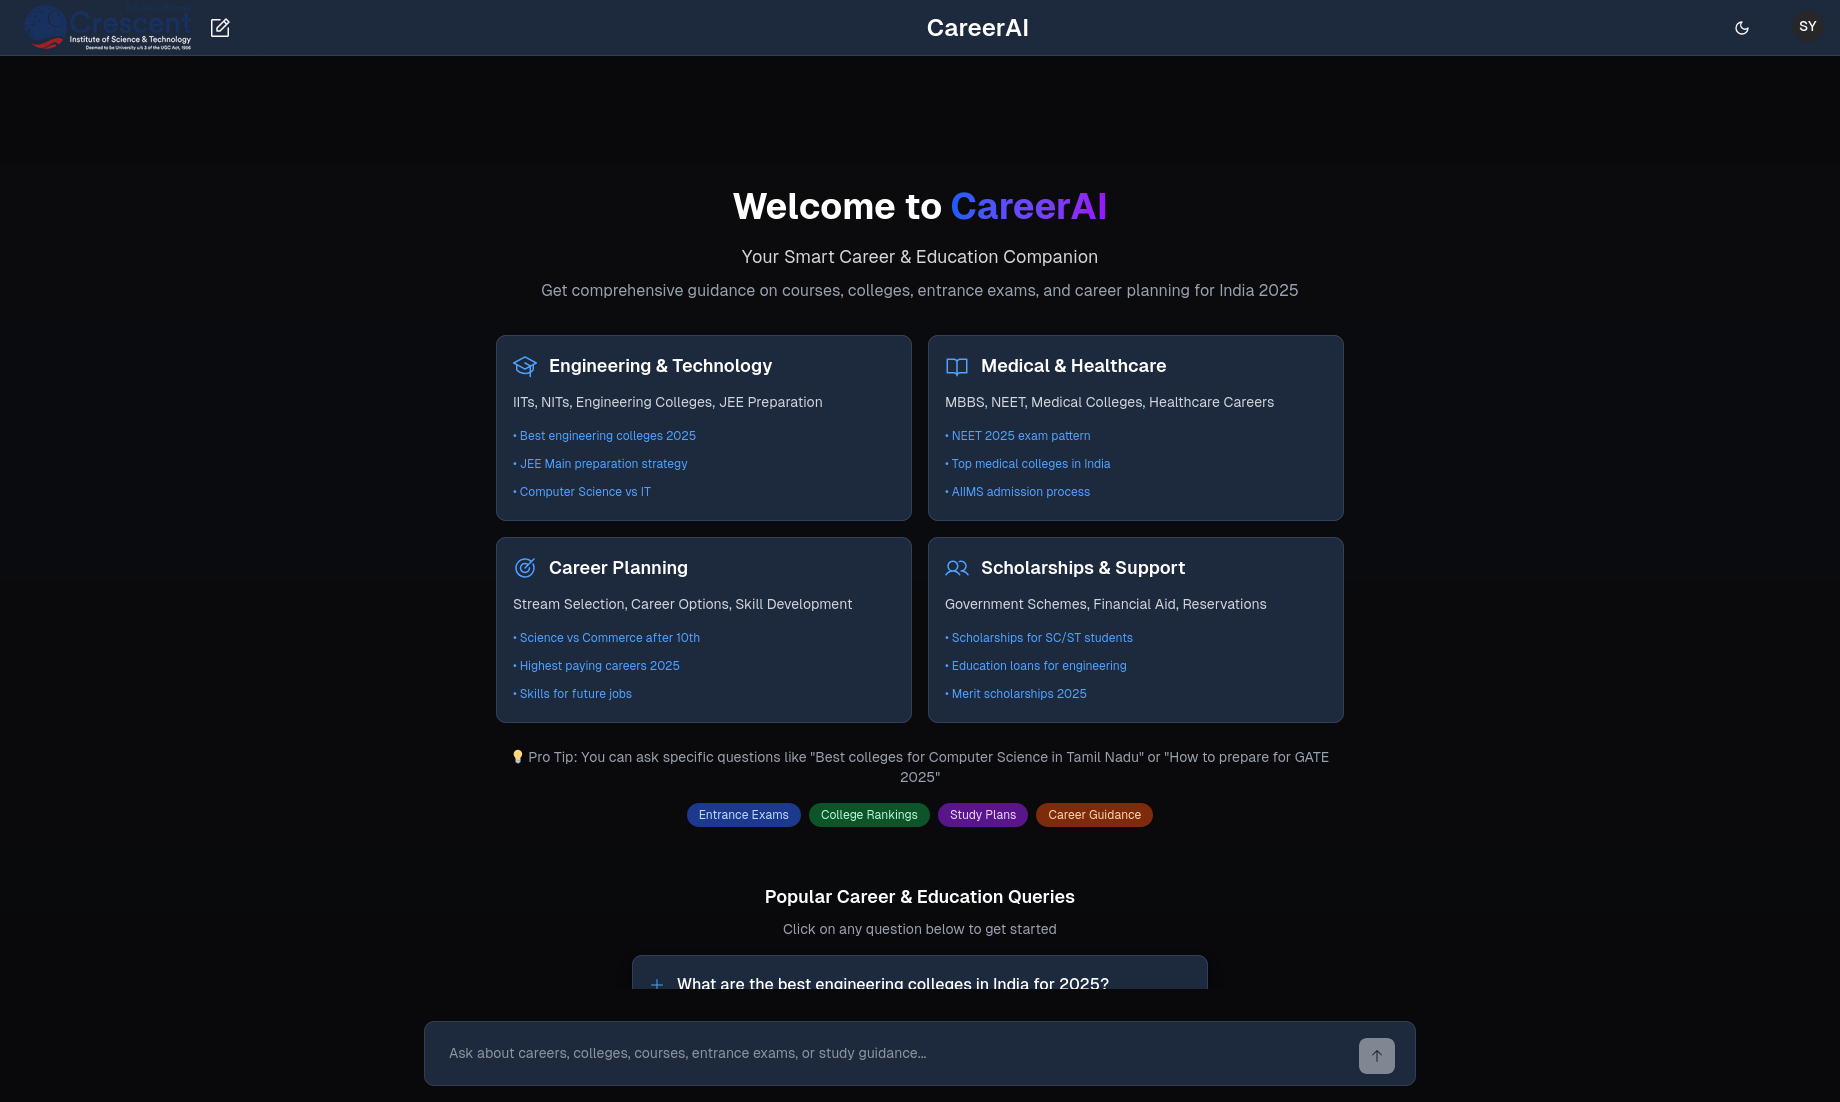
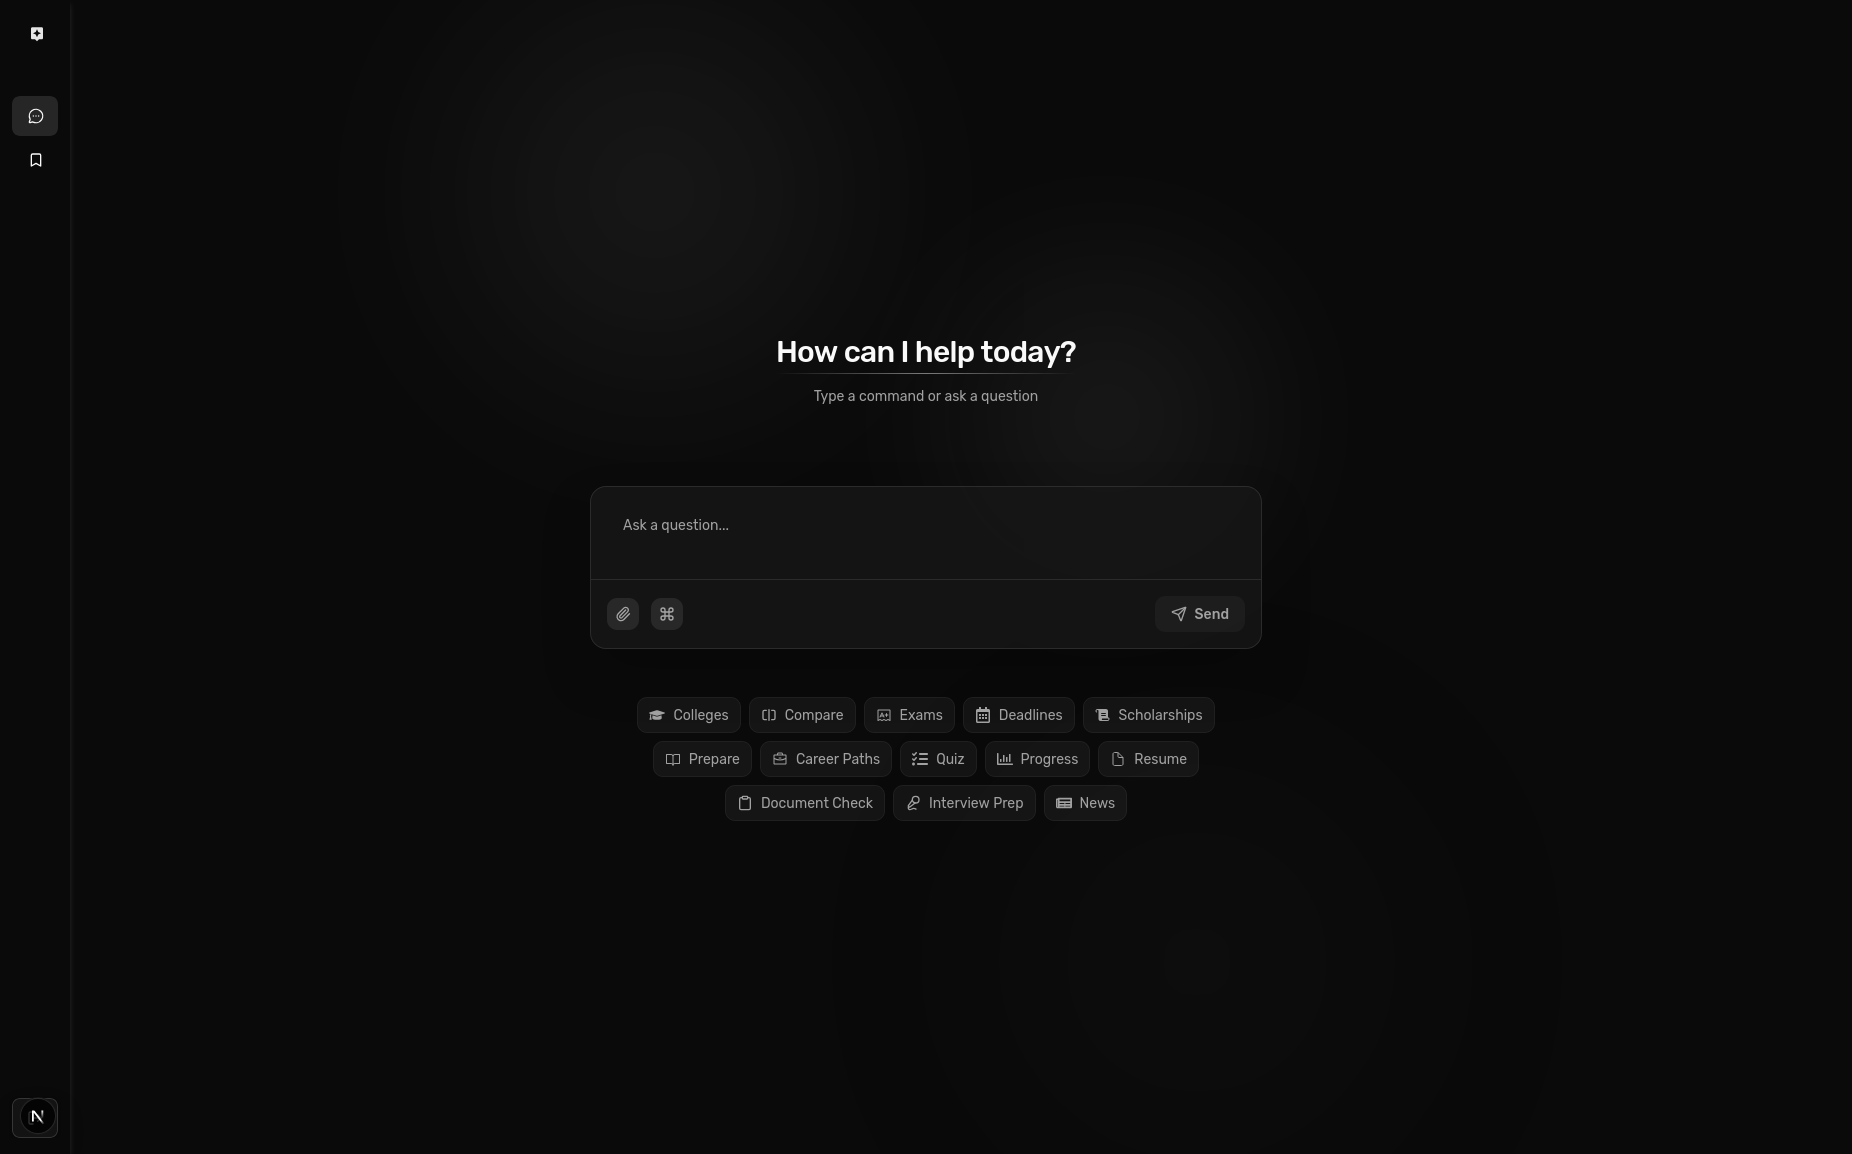
ui bug fixes

diff --git a/components/side-panel/menu.tsx b/components/side-panel/menu.tsx
@@ -2,7 +2,7 @@
 
 import Link from "next/link";
 import { LogOut } from "lucide-react";
-import { usePathname } from "next/navigation";
+import { usePathname, useRouter } from "next/navigation";
 
 import { cn } from "@/lib/utils";
 // import { getMenuList } from "@/lib/menu-list";
@@ -10,7 +10,11 @@ import { Button } from "@/components/ui/button";
 import { ScrollArea } from "@/components/ui/scroll-area";
 import { CollapseMenuButton } from "@/components/side-panel/collapse-menu-button";
 import UseChatbot from "@/hooks/use-chatbot";
+import { createAuthClient } from "better-auth/react";
+import { UserAvatar } from "@daveyplate/better-auth-ui";
+import { authClient } from "@/lib/auth-client";
 
+const { useSession } = createAuthClient();
 interface MenuProps {
     isOpen: boolean | undefined;
 }
@@ -18,6 +22,19 @@ interface MenuProps {
 export function Menu({ isOpen }: MenuProps) {
     const pathname = usePathname();
     const { menu } = UseChatbot();
+    const { data: session } = useSession();
+
+    const router = useRouter();
+
+    const signOut = async () => {
+        await authClient.signOut({
+            fetchOptions: {
+                onSuccess: () => {
+                    router.push("/auth/sign-in");
+                },
+            },
+        });
+    };
 
     return (
         <ScrollArea className="[&>div>div[style]]:!block">
@@ -98,28 +115,47 @@ export function Menu({ isOpen }: MenuProps) {
                             )}
                         </li>
                     ))}
-                    <li className="w-full grow flex items-end">
-                        <Button
-                            onClick={() => {}}
-                            variant="outline"
-                            className="w-full justify-center h-10 mt-5"
-                        >
-                            <span
-                                className={cn(isOpen === false ? "" : "mr-4")}
-                            >
-                                <LogOut size={18} />
-                            </span>
-                            <p
-                                className={cn(
-                                    "whitespace-nowrap",
-                                    isOpen === false
-                                        ? "opacity-0 hidden"
-                                        : "opacity-100"
-                                )}
-                            >
-                                Sign out
-                            </p>
-                        </Button>
+                    <li className="w-full grow flex items-end justify-center">
+                        {session && (
+                            <div className=" p-1 rounded-lg border shadow items-center">
+                                <div className="flex space-x-4 px-2 pt-2">
+                                    <UserAvatar className="mx-auto" />
+                                    {isOpen && (
+                                        <div>
+                                            <p className="font-medium">
+                                                {session.user.name}
+                                            </p>
+                                            <span className="text-sm text-foreground">
+                                                {session.user.email}
+                                            </span>
+                                        </div>
+                                    )}
+                                </div>
+                                <Button
+                                    onClick={signOut}
+                                    variant="outline"
+                                    className="w-full justify-center h-10 mt-5"
+                                >
+                                    <span
+                                        className={cn(
+                                            isOpen === false ? "" : "mr-4"
+                                        )}
+                                    >
+                                        <LogOut size={18} />
+                                    </span>
+                                    <p
+                                        className={cn(
+                                            "whitespace-nowrap",
+                                            isOpen === false
+                                                ? "opacity-0 hidden"
+                                                : "opacity-100"
+                                        )}
+                                    >
+                                        Sign out
+                                    </p>
+                                </Button>
+                            </div>
+                        )}
                     </li>
                 </ul>
             </nav>

diff --git a/components/layout/header.tsx b/components/layout/header.tsx
@@ -5,6 +5,7 @@ import { motion, AnimatePresence, easeInOut } from "framer-motion";
 import { Menu, X, ArrowRight, Search } from "lucide-react";
 import Link from "next/link";
 import { MdAssistant } from "react-icons/md";
+import { UserButton } from "@daveyplate/better-auth-ui";
 
 interface NavItem {
     name: string;
@@ -162,7 +163,8 @@ export default function Header() {
                             className="hidden items-center space-x-3 lg:flex"
                             variants={itemVariants}
                         >
-                            <Link
+                            <UserButton size="icon" />
+                            {/* <Link
                                 prefetch={false}
                                 href="/login"
                                 className="text-foreground/80 hover:text-foreground px-4 py-2 text-sm font-medium transition-colors duration-200"
@@ -182,7 +184,7 @@ export default function Header() {
                                     <span>Get Started</span>
                                     <ArrowRight className="h-4 w-4" />
                                 </Link>
-                            </motion.div>
+                            </motion.div> */}
                         </motion.div>
 
                         <motion.button

diff --git a/components/page-layout/ai/chatbot.tsx b/components/page-layout/ai/chatbot.tsx
@@ -161,13 +161,6 @@ export default function ChatBot() {
 
     const commandSuggestions: CommandSuggestion[] = [
         {
-            icon: <MonitorIcon className="h-4 w-4" />,
-            label: "Overview",
-            description:
-                "Shows a quick summary of B.Tech—what it is, branches, eligibility",
-            prefix: "/overview",
-        },
-        {
             icon: <FaGraduationCap className="h-4 w-4" />,
             label: "Colleges",
             description:
@@ -199,13 +192,13 @@ export default function ChatBot() {
             prefix: "/scholarships",
         },
         {
-            icon: <PiBookOpen className="h-4 w-4" />, // Lucide BookOpen for study guide
+            icon: <PiBookOpen className="h-4 w-4" />,
             label: "Prepare",
             description: "Provides a study guide for entrance exams",
             prefix: "/prepare",
         },
         {
-            icon: <PiBriefcase className="h-4 w-4" />, // Lucide Briefcase for career paths
+            icon: <PiBriefcase className="h-4 w-4" />,
             label: "Career Paths",
             description: "Shows job and higher study options after B.Tech",
             prefix: "/careerpaths",

diff --git a/components/side-panel/sheet-menu.tsx b/components/side-panel/sheet-menu.tsx
@@ -10,6 +10,7 @@ import {
     SheetTrigger,
     SheetTitle,
 } from "@/components/ui/sheet";
+import { MdAssistant } from "react-icons/md";
 
 export function SheetMenu() {
     return (
@@ -29,11 +30,8 @@ export function SheetMenu() {
                         variant="link"
                         asChild
                     >
-                        <Link
-                            href="/dashboard"
-                            className="flex items-center gap-2"
-                        >
-                            <PanelsTopLeft className="w-6 h-6 mr-1" />
+                        <Link href="/" className="flex items-center gap-2">
+                            <MdAssistant className="w-6 h-6 mr-1" />
                             <SheetTitle className="font-bold text-lg">
                                 Career AI
                             </SheetTitle>

diff --git a/app/auth/[path]/page.tsx b/app/auth/[path]/page.tsx
@@ -1,3 +1,5 @@
+import Footer from "@/components/layout/footer";
+import Header from "@/components/layout/header";
 import { AuthView } from "@daveyplate/better-auth-ui";
 import { authViewPaths } from "@daveyplate/better-auth-ui/server";
 
@@ -15,8 +17,12 @@ export default async function AuthPage({
     const { path } = await params;
 
     return (
-        <main className="container flex grow flex-col items-center justify-center self-center p-4 md:p-6">
-            <AuthView path={path} />
-        </main>
+        <div className="w-full h-full flex flex-col items-stretch">
+            <Header />
+            <main className="w-full flex grow flex-col items-center justify-center self-center p-4 md:p-6">
+                <AuthView path={path} />
+            </main>
+            <Footer />
+        </div>
     );
 }

diff --git a/components/side-panel/sidebar.tsx b/components/side-panel/sidebar.tsx
@@ -6,6 +6,7 @@ import { useStore } from "@/hooks/use-store";
 import { cn } from "@/lib/utils";
 import { PanelsTopLeft } from "lucide-react";
 import Link from "next/link";
+import { MdAssistant } from "react-icons/md";
 
 export function Sidebar() {
     const sidebar = useStore(useSidebar, (x) => x);
@@ -33,7 +34,7 @@ export function Sidebar() {
                     asChild
                 >
                     <Link href="/" className="flex items-center gap-2">
-                        <PanelsTopLeft className="w-6 h-6 mr-1" />
+                        <MdAssistant className="w-6 h-6 mr-1" />
                         <h1
                             className={cn(
                                 "font-bold text-lg whitespace-nowrap transition-[transform,opacity,display] ease-in-out duration-300",

diff --git a/components/auth/callback-handler.tsx b/components/auth/callback-handler.tsx
@@ -1,0 +1,23 @@
+"use client";
+
+import { useEffect } from "react";
+import { useRouter, useSearchParams } from "next/navigation";
+import { authClient } from "@/lib/auth-client";
+
+export function AuthCallbackHandler() {
+    const router = useRouter();
+    const searchParams = useSearchParams();
+    const { data: session } = authClient.useSession();
+
+    useEffect(() => {
+        // If user is authenticated and there's a callback URL, redirect
+        if (session) {
+            const callbackUrl = searchParams.get("callbackUrl");
+            if (callbackUrl && callbackUrl !== window.location.pathname) {
+                router.push(callbackUrl);
+            }
+        }
+    }, [session, searchParams, router]);
+
+    return null; // This component doesn't render anything
+}

diff --git a/app/account/[path]/page.tsx b/app/account/[path]/page.tsx
@@ -1,3 +1,5 @@
+import Footer from "@/components/layout/footer";
+import Header from "@/components/layout/header";
 import { AccountView } from "@daveyplate/better-auth-ui";
 import { accountViewPaths } from "@daveyplate/better-auth-ui/server";
 
@@ -15,8 +17,13 @@ export default async function AccountPage({
     const { path } = await params;
 
     return (
-        <main className="container p-4 md:p-6">
-            <AccountView path={path} />
-        </main>
+        <div className="w-full h-full flex flex-col items-stretch">
+            <Header />
+
+            <main className="mt-15 p-4 md:p-6">
+                <AccountView path={path} />
+            </main>
+            <Footer />
+        </div>
     );
 }

diff --git a/components/page-layout/ai/providers.tsx b/components/page-layout/ai/providers.tsx
@@ -4,6 +4,7 @@ import ChatBot from "@/components/page-layout/ai/chatbot";
 import { ChatBotProvider } from "@/hooks/use-chatbot";
 import { Navbar } from "@/components/side-panel/navbar";
 import { Sidebar } from "@/components/side-panel/sidebar";
+import { RedirectToSignIn } from "@daveyplate/better-auth-ui";
 
 const Providers = ({
     children,
@@ -12,6 +13,7 @@ const Providers = ({
 }: React.ComponentProps<"div"> & { userId: string; chatId?: string }) => {
     return (
         <ChatBotProvider userId={userId} chatId={chatId}>
+            <RedirectToSignIn />
             <Sidebar />{" "}
             <div className="w-full h-full">
                 <Navbar />

diff --git a/components/page-layout/ai/chatBox.tsx b/components/page-layout/ai/chatBox.tsx
@@ -19,8 +19,8 @@ const ChatBox = ({ message }: { message: Message }) => {
 
     const tabs: Tab[] = [
         {
-            title: "Search",
-            value: "search",
+            title: "Summary",
+            value: "summary",
             content: (
                 <div
                     key={`search-${message.id}-${responseLength}`}

diff --git a/components/side-panel/navbar.tsx b/components/side-panel/navbar.tsx
@@ -3,7 +3,7 @@ import { SheetMenu } from "@/components/side-panel/sheet-menu";
 
 export function Navbar() {
     return (
-        <header className="fixed top-0 z-20 w-full">
+        <header className="fixed top-0 z-20 lg:z-0 w-full">
             <div className="mx-4 sm:mx-8 flex h-14 items-center">
                 <SheetMenu />
 

diff --git a/app/ai/[id]/page.tsx b/app/ai/[id]/page.tsx
@@ -8,6 +8,7 @@ const page = async ({ params }: { params: Promise<{ id?: string }> }) => {
     const session = await auth.api.getSession({
         headers: await headers(),
     });
+
     return (
         <>
             <Providers
